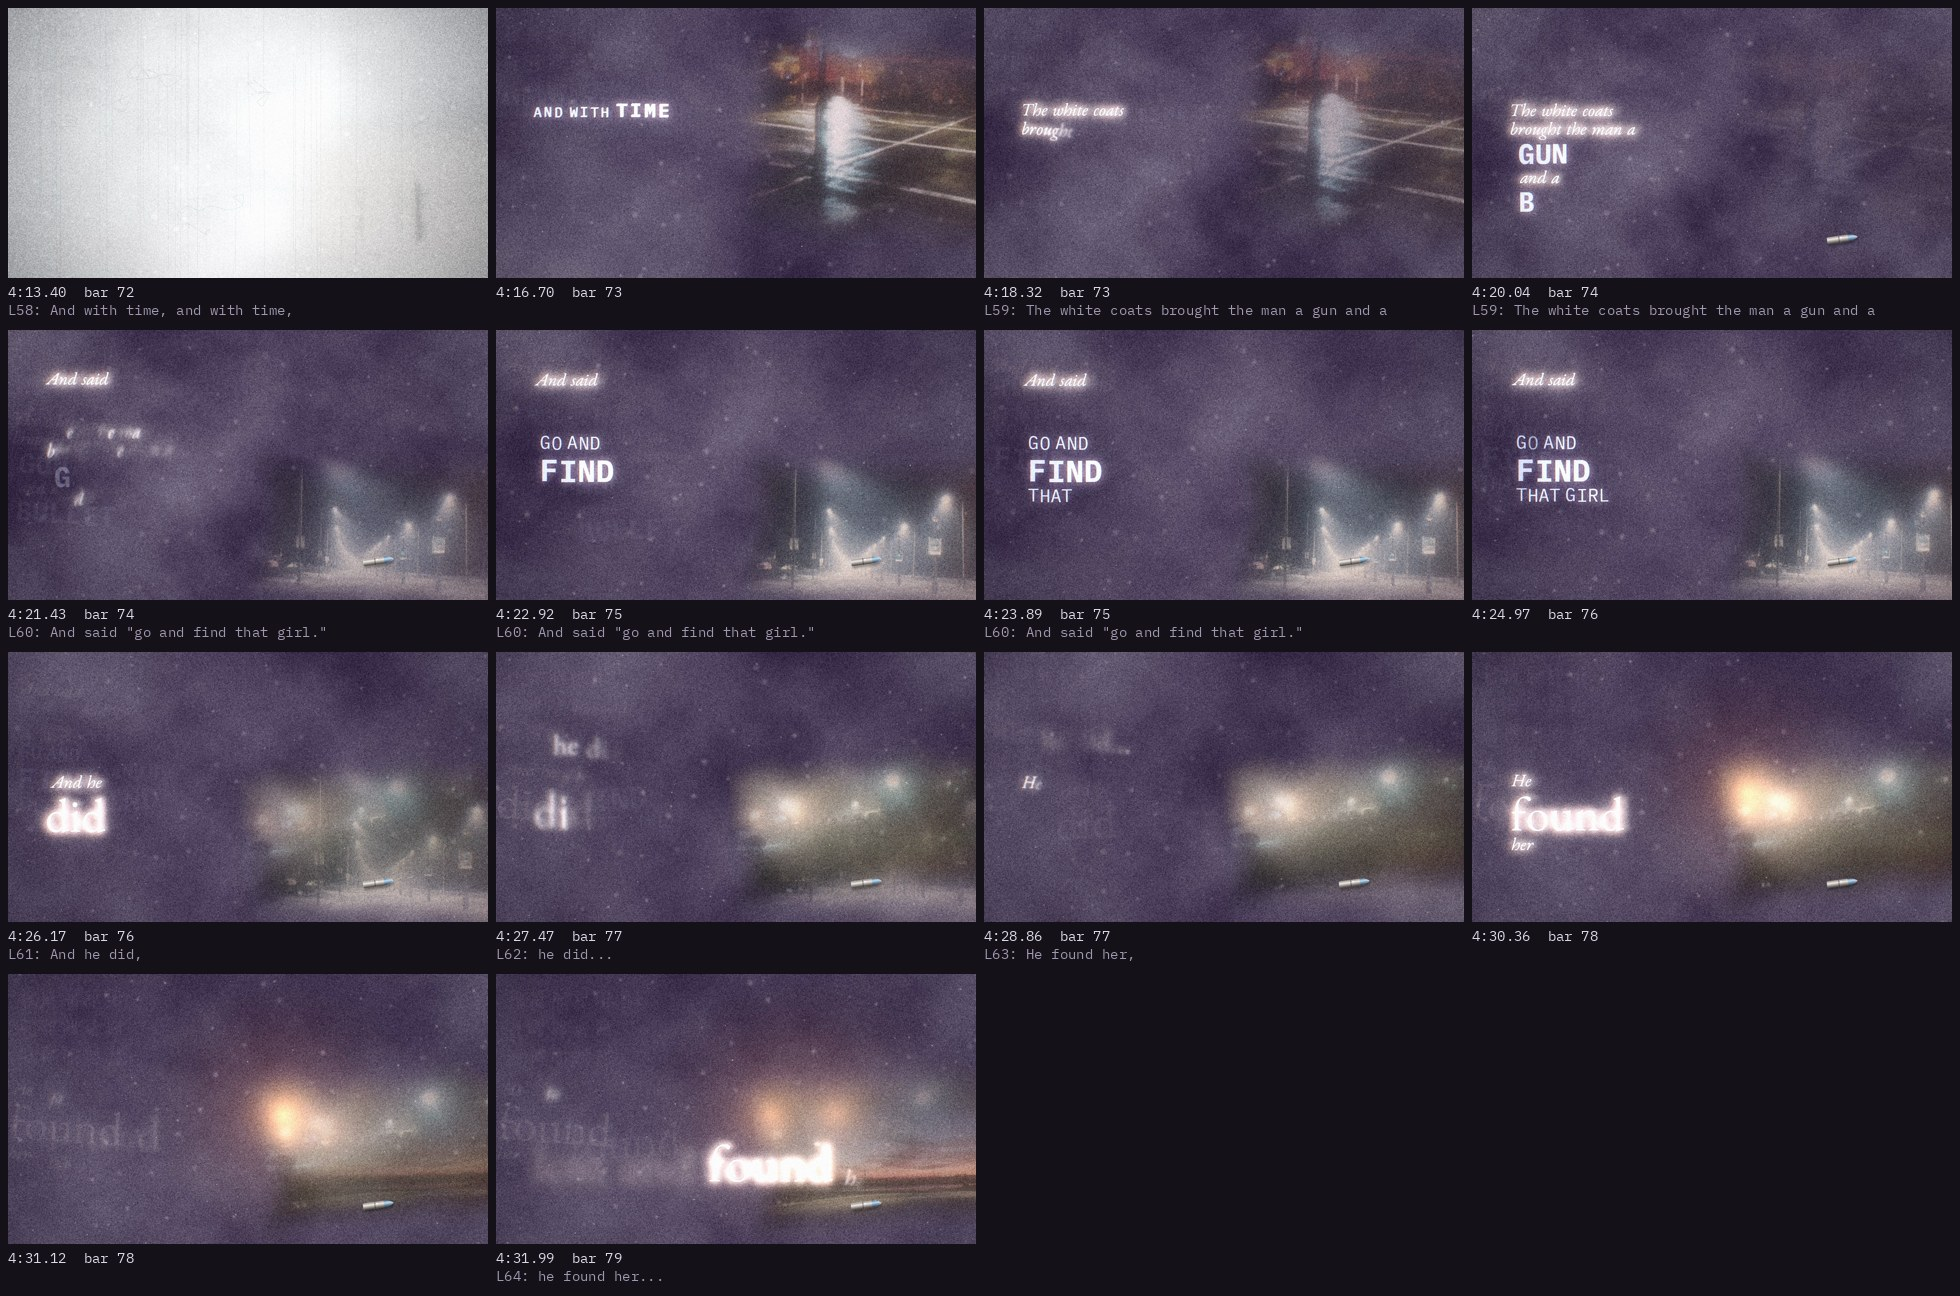
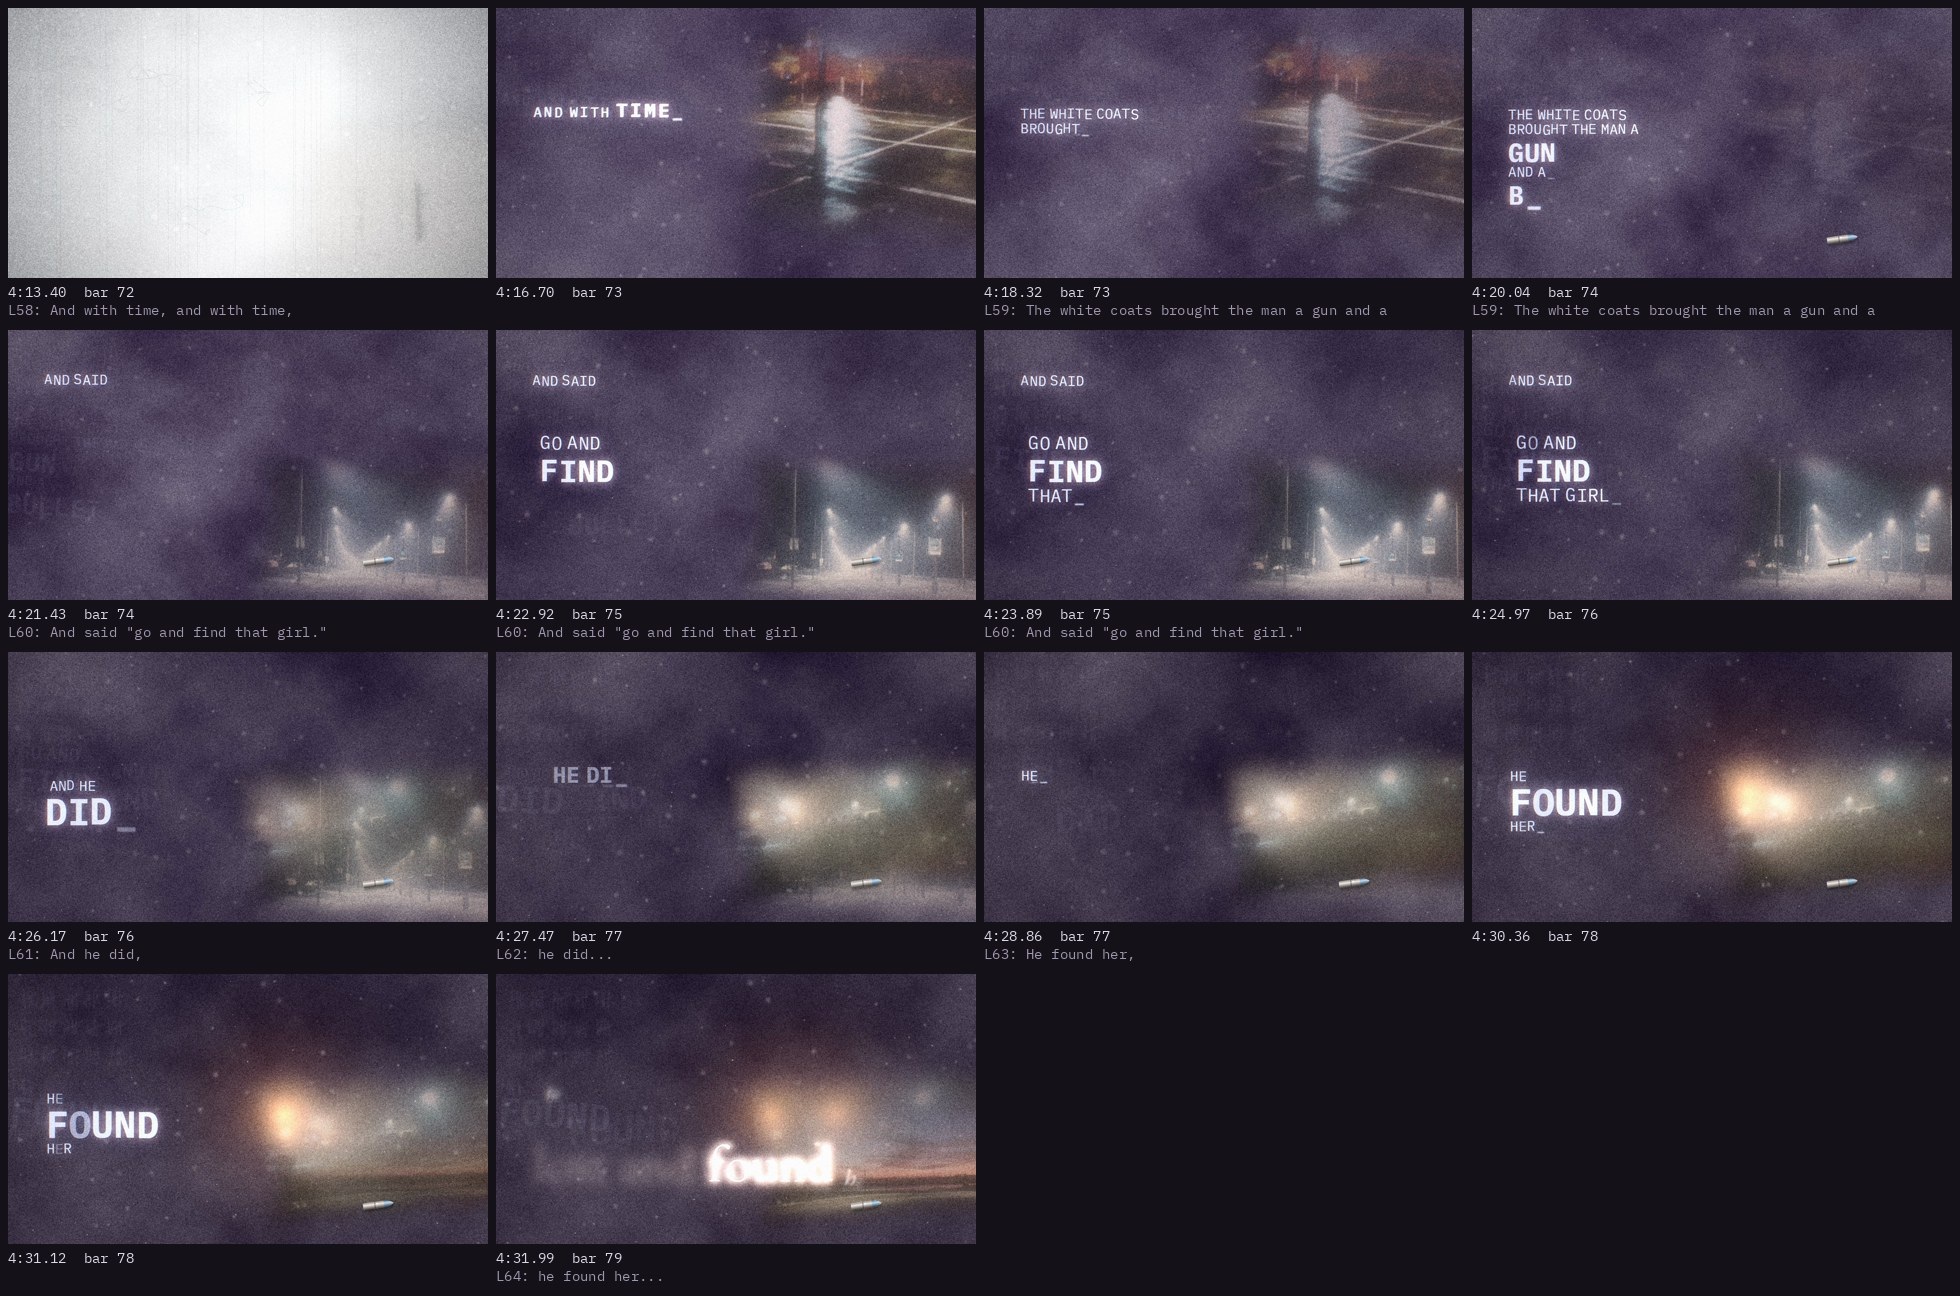
Storyboard: A gun and a bullet, typed in the coats' voice
Claude-Session: https://claude.ai/code/session_013aPae8dR11r7xw8o95d9Yi

diff --git a/storyboard/index.html b/storyboard/index.html
@@ -150,7 +150,7 @@ ol.steps li::marker { font: 600 0.85rem var(--mono); color: var(--ink-2); }
   </video>
   <figcaption><b>A gun and a bullet</b>
     <span class="tc">4:13.4 → 4:33.8 · bars 73–79</span>
-    <span class="note">His finding becomes a hunt. The coats&#x27; white drains into the night as their clock (&#x27;with time&#x27;, overstruck, in their cold type) follows him into it. GUN and BULLET are set in their type; on &#x27;bullet&#x27; the film&#x27;s first sharp thing appears, a cold glint on the floor, and stays. &#x27;And said&#x27; in her voice above their order, GO AND FIND THAT GIRL. DID, then &#x27;he did...&#x27; only seeping in. On &#x27;he found her&#x27; his light closes on her; the second time it stops short, and &#x27;found&#x27; lands in the title&#x27;s space behind the same unreadable smudge, with &#x27;her...&#x27; after it. Every phrase re-timed to its sung onset. <a href="renders/gun_and_bullet_contact.jpg">Contact sheet</a></span></figcaption>
+    <span class="note">Revised for suspense: until the final &#x27;he found her...&#x27;, every line is the coats&#x27; cold typed monospace, their report of the hunt, typed as it is sung, with a cursor that waits and blinks through each silence. The night darkens as he closes in; the bullet glint stays the one sharp thing. The last &#x27;found her...&#x27; returns to her voice in the title&#x27;s space behind the unreadable smudge. <a href="renders/gun_and_bullet_contact.jpg">Contact sheet</a></span></figcaption>
 </figure>
 <figure class="render" id="render-white_coats_ii">
   <video controls playsinline preload="metadata" poster="renders/white_coats_ii_poster.jpg" width="1280" height="720">
@@ -504,7 +504,7 @@ ol.steps li::marker { font: 600 0.85rem var(--mono); color: var(--ink-2); }
     <p class="lyr">And with time, and with time,</p>
     <dl>
       <dt>Picture</dt><dd>His finding becomes a hunt. The coats&#x27; white drains into the night as their clock follows him into it. On “bullet” the first sharp thing in the film appears: a small cold glint on the floor. On “he found her” his light closes on her; the second time it stops short, and “found” lands in the title&#x27;s space again, behind the same unreadable smudge, with “her...” after it.</dd>
-      <dt>Type</dt><dd>Her voice narrates; the coats&#x27; things and words in their cold type: “with time” overstruck, GUN, BULLET, GO AND FIND THAT GIRL. DID, then “he did...” seeping in; FOUND.</dd>
+      <dt>Type</dt><dd>Until the last line, everything is the coats&#x27; cold typed monospace: their report of the hunt, typed as it is sung, a cursor waiting after each phrase through the silences. GUN, BULLET, FIND, DID, then HE DID... seeping in; FOUND. The last “found her...” returns to her voice, in the title&#x27;s space.</dd>
       <dt>Sync</dt><dd>Every phrase re-timed to its sung onset after the silences; the glint appears on “bullet” and stays.</dd>
     </dl>
   </div>
